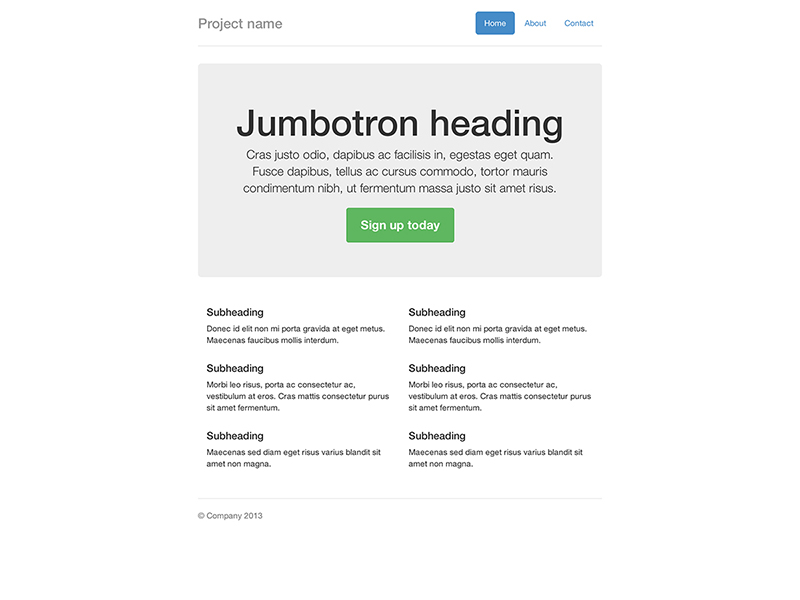
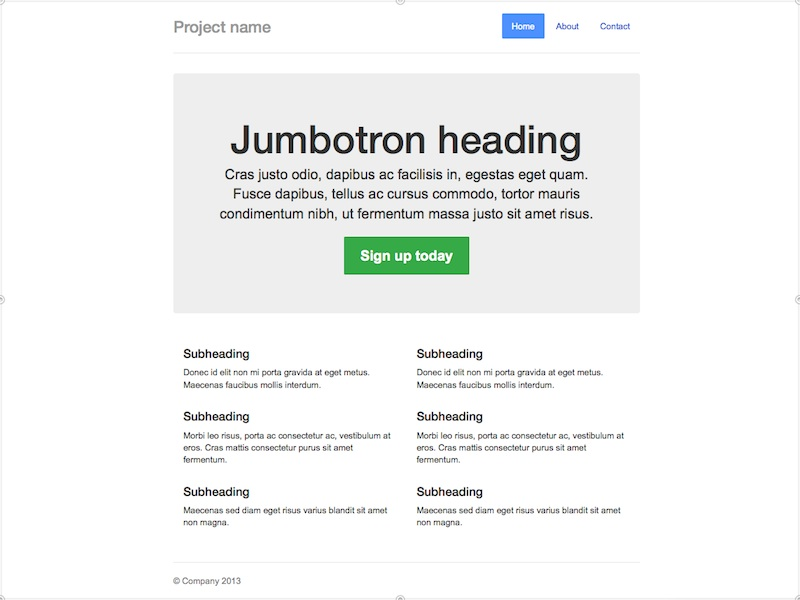
update the narrow jumbotron example to support todc-bootstrap
#117

diff --git a/examples/jumbotron-narrow/index.html b/examples/jumbotron-narrow/index.html
@@ -8,10 +8,13 @@
     <meta name="author" content="">
     <link rel="shortcut icon" href="../../docs-assets/ico/favicon.png">
 
-    <title>Narrow Jumbotron Template for Bootstrap</title>
+    <title>Narrow Jumbotron Template for TODC Bootstrap</title>
 
     <!-- Bootstrap core CSS -->
     <link href="../../dist/css/bootstrap.css" rel="stylesheet">
+
+    <!-- TODC Bootstrap core CSS -->
+    <link href="../../dist/css/todc-bootstrap.css" rel="stylesheet">
 
     <!-- Custom styles for this template -->
     <link href="jumbotron-narrow.css" rel="stylesheet">
